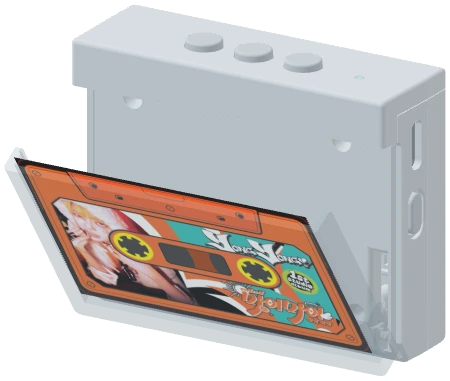
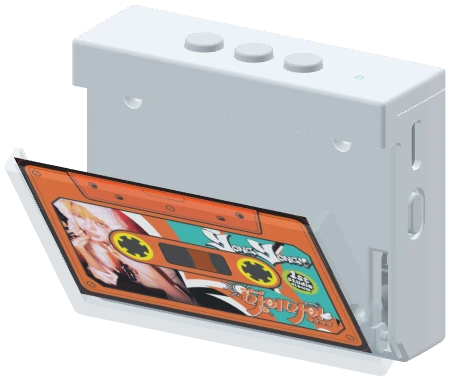
Give the demo player a matte finish and remove overlays

diff --git a/player3/guide/card-demo.js b/player3/guide/card-demo.js
@@ -9,9 +9,6 @@
   const instruction = document.querySelector('#demo-instruction');
   const audio = document.querySelector('#demo-audio');
   const rotateHint = document.querySelector('.demo-rotate-hint');
-  const arrows = stage.querySelector('.demo-arrows');
-  const label = stage.querySelector('.demo-callout');
-  const arrow = arrows.querySelector('path');
   const viewMenu = document.querySelector('.demo-views');
   const viewButtons = [...viewMenu.querySelectorAll('button')];
   const zoomControls = document.querySelector('.demo-zoom');
@@ -48,8 +45,8 @@
     if (drawModel) {
       drawModel(step);
     } else {
-      photo.src = step === 2 ? 'images/cad-demo-open-empty.webp?v=right-angle' :
-        step === 1 || step === 3 ? 'images/cad-cover-open.webp?v=right-angle' : 'images/cad-front.webp?v=right-angle';
+      photo.src = step === 2 ? 'images/cad-demo-open-empty.webp?v=matte' :
+        step === 1 || step === 3 ? 'images/cad-cover-open.webp?v=matte' : 'images/cad-front.webp?v=matte';
       looseCard.hidden = step !== 2;
     }
   }
@@ -167,10 +164,10 @@
     rearLight.position.set(65, 110, 100);
     scene.add(key, rearLight);
 
-    const shell = new THREE.MeshStandardMaterial({color: 0xc5cad0, roughness: .68, side: THREE.DoubleSide});
+    const shell = new THREE.MeshStandardMaterial({color: 0xc5cad0, roughness: .94, side: THREE.DoubleSide});
     const glass = new THREE.MeshPhysicalMaterial({
-      color: 0x829ba8, roughness: .22, metalness: .12,
-      transparent: true, opacity: .33, depthWrite: false,
+      color: 0x829ba8, roughness: .60, metalness: 0,
+      transparent: true, opacity: .25, depthWrite: false,
     });
     const rotation = new THREE.Matrix4().makeBasis(
       new THREE.Vector3(0, 0, 1),
@@ -198,12 +195,12 @@
       geometry.setIndex(new THREE.BufferAttribute(decode(part.f, Uint16Array), 1));
       return new THREE.Mesh(geometry, material);
     }
-    const wheelMaterial = new THREE.MeshStandardMaterial({color: 0xa5a9ae, roughness: .78, side: THREE.DoubleSide});
-    const portMaterial = new THREE.MeshStandardMaterial({color: 0x4b5058, roughness: .64, side: THREE.DoubleSide});
-    const ledMaterial = new THREE.MeshStandardMaterial({color: 0x9cc6ca, roughness: .36, side: THREE.DoubleSide});
+    const wheelMaterial = new THREE.MeshStandardMaterial({color: 0xa5a9ae, roughness: .92, side: THREE.DoubleSide});
+    const portMaterial = new THREE.MeshStandardMaterial({color: 0x4b5058, roughness: .89, side: THREE.DoubleSide});
+    const ledMaterial = new THREE.MeshStandardMaterial({color: 0x9cc6ca, roughness: .75, side: THREE.DoubleSide});
     for (const id of ['0', '1', '16']) scene.add(mesh(id, shell));
     scene.add(mesh('13', portMaterial));
-    const buttons = new THREE.MeshStandardMaterial({color: 0xaab2ba, roughness: .68, side: THREE.DoubleSide});
+    const buttons = new THREE.MeshStandardMaterial({color: 0xaab2ba, roughness: .94, side: THREE.DoubleSide});
     scene.add(controlMesh('buttons', buttons), controlMesh('power', buttons));
     scene.add(controlMesh('wheel', wheelMaterial), controlMesh('usb', portMaterial), controlMesh('led', ledMaterial));
 
@@ -249,37 +246,6 @@
     const axis = new THREE.Vector3(1, 0, 0);
     const cardPosition = new THREE.Vector3();
     const slide = new THREE.Vector3();
-    const point = new THREE.Vector3();
-    function annotate() {
-      const frontFacing = step === 0 && Math.abs(yaw - homeYaw) < .43 && pitch > .08 && pitch < .83;
-      // Use the front cover's lower right edge as the callout anchor.
-      point.set(31, .4, -20).project(camera);
-      const x = (point.x + 1) * width / 2;
-      const y = (1 - point.y) * height / 2;
-      const visible = frontFacing && x >= 0 && x < width - 8 && y >= 0 && y < height - 24;
-      arrows.toggleAttribute('hidden', !visible);
-      label.hidden = !visible;
-      if (!visible) return;
-      const w = label.offsetWidth;
-      const h = label.offsetHeight;
-      const rightEdge = (point.set(33, 24, -20).project(camera).x + 1) * width / 2;
-      const fitsRight = rightEdge + 12 + w <= width - 4;
-      const lx = fitsRight ? rightEdge + 12 : Math.max(4, Math.min(width - w - 4, x - w / 2));
-      const ly = fitsRight ? Math.min(height - h - 4, y + 8) : y + 30;
-      if (ly + h > height - 4) {
-        arrows.setAttribute('hidden', '');
-        label.hidden = true;
-        return;
-      }
-      label.style.transform = `translate(${lx}px,${ly}px)`;
-      const startX = lx + w / 2;
-      const startY = ly + h / 2;
-      const angle = Math.atan2(y - startY, x - startX);
-      const tipX = x - Math.cos(angle) * 3;
-      const tipY = y - Math.sin(angle) * 3;
-      const edge = side => [tipX - 5 * Math.cos(angle + side), tipY - 5 * Math.sin(angle + side)].join(' ');
-      arrow.setAttribute('d', `M ${startX} ${startY} L ${tipX} ${tipY} M ${edge(.58)} L ${tipX} ${tipY} L ${edge(-.58)}`);
-    }
     function render() {
       hinge.rotation.x = coverAngle;
       cardPosition.copy(slot).applyAxisAngle(axis, coverAngle).add(hinge.position);
@@ -291,7 +257,6 @@
       camera.position.set(viewShift + horizontal * Math.sin(yaw), -2 - horizontal * Math.cos(yaw), radius * Math.sin(pitch));
       camera.lookAt(viewShift, -2, 0);
       renderer.render(scene, camera);
-      annotate();
     }
     function update(state) {
       cancelAnimationFrame(frame);
@@ -349,8 +314,6 @@
       rotateModel = resetView = null;
       stage.classList.remove('has-model');
       rotateHint.hidden = viewMenu.hidden = true;
-      arrows.setAttribute('hidden', '');
-      label.hidden = true;
       zoomModel = null;
       drawModel = null;
       canvas.hidden = true;

diff --git a/player3/guide/index.html b/player3/guide/index.html
@@ -11,7 +11,7 @@
   <link rel="stylesheet" href="https://fonts.googleapis.com/css2?family=Noto+Sans+KR:wght@400;500;700&display=swap">
 <link rel="stylesheet" href="https://cdn.jsdelivr.net/gh/orioncactus/pretendard@v1.3.9/dist/web/static/pretendard.css">
   <link rel="stylesheet" href="../player-header.css">
-  <link rel="stylesheet" href="guide.css?v=viewer-angles">
+  <link rel="stylesheet" href="guide.css?v=matte">
 </head>
 <body>
   <a class="skip" href="#main">본문으로 건너뛰기</a>
@@ -47,12 +47,10 @@
       <div class="demo-viewer">
         <button class="demo-stage" type="button" id="demo-stage" aria-label="플레이어에서 커버 열기" disabled>
           <span class="demo-preview">
-            <img class="demo-product" src="images/cad-front.webp?v=right-angle" alt="">
+            <img class="demo-product" src="images/cad-front.webp?v=matte" alt="">
             <img class="demo-loose-card" src="images/card.webp?v=mymy" alt="" hidden>
           </span>
           <canvas class="demo-canvas" aria-hidden="true" hidden></canvas>
-          <span class="demo-callout" aria-hidden="true" hidden>투명 전면 커버</span>
-          <svg class="demo-arrows" aria-hidden="true" hidden><path/></svg>
         </button>
         <div class="demo-zoom" role="group" aria-label="모델 확대·축소" hidden>
           <button type="button" id="demo-zoom-out" aria-label="축소" disabled>−</button>
@@ -96,18 +94,18 @@
         </li>
         <li id="play">
           <div class="step-copy"><h3>전면 커버 열기</h3><p>앞쪽의 투명 커버를 앞으로 여세요. 커버는 35°까지 열려요.</p></div>
-          <a class="step-photo cover-photo" href="images/cad-cover-open.webp?v=right-angle" data-zoom="cover" aria-label="투명 전면 커버를 앞으로 연 상태 확대">
-            <span class="cover-frame"><img src="images/cad-cover-open.webp?v=right-angle" alt="투명 전면 커버를 앞으로 연 상태" loading="lazy"></span>
+          <a class="step-photo cover-photo" href="images/cad-cover-open.webp?v=matte" data-zoom="cover" aria-label="투명 전면 커버를 앞으로 연 상태 확대">
+            <span class="cover-frame"><img src="images/cad-cover-open.webp?v=matte" alt="투명 전면 커버를 앞으로 연 상태" loading="lazy"></span>
             <span class="cover-caption">투명 전면 커버</span>
           </a>
         </li>
         <li>
           <div class="step-copy"><h3>NFC 피스 넣기</h3><p>피스를 열린 커버 안쪽의 카드 거치부에 넣으세요.</p></div>
-          <a class="step-photo card-photo" href="images/cad-card-insert.webp?v=right-angle" data-zoom aria-label="플레이어 커버 안쪽 거치부에 NFC 피스를 넣는 모습 확대"><img src="images/cad-card-insert.webp?v=right-angle" alt="플레이어 커버 안쪽 거치부에 NFC 피스를 넣는 모습" loading="lazy"></a>
+          <a class="step-photo card-photo" href="images/cad-card-insert.webp?v=matte" data-zoom aria-label="플레이어 커버 안쪽 거치부에 NFC 피스를 넣는 모습 확대"><img src="images/cad-card-insert.webp?v=matte" alt="플레이어 커버 안쪽 거치부에 NFC 피스를 넣는 모습" loading="lazy"></a>
         </li>
         <li>
           <div class="step-copy"><h3>커버 닫고 앨범 재생</h3><p>음원이 저장되어 있으면 피스를 인식한 뒤 바로 재생돼요. 처음 듣는 피스는 Wi-Fi로 음원을 내려받아요.</p></div>
-          <a class="step-photo" href="images/cad-front.webp?v=right-angle" data-zoom aria-label="피스를 넣고 전면 커버를 닫은 플레이어 확대"><img src="images/cad-front.webp?v=right-angle" alt="피스를 넣고 전면 커버를 닫은 플레이어" loading="lazy"></a>
+          <a class="step-photo" href="images/cad-front.webp?v=matte" data-zoom aria-label="피스를 넣고 전면 커버를 닫은 플레이어 확대"><img src="images/cad-front.webp?v=matte" alt="피스를 넣고 전면 커버를 닫은 플레이어" loading="lazy"></a>
         </li>
         <li>
           <div class="step-copy"><h3>버튼과 볼륨 휠로 조작</h3><p>윗면 버튼으로 곡을 바꾸거나 재생을 멈출 수 있어요. 왼쪽 휠을 돌리면 음량이 조절돼요.</p><a href="#controls">버튼 위치 자세히 보기</a></div>
@@ -266,6 +264,6 @@
   </dialog>
   <script defer src="https://cdn.jsdelivr.net/npm/three@0.128.0/build/three.min.js"></script>
   <script defer src="guide.js?v=card-demo"></script>
-  <script defer src="card-demo.js?v=viewer-angles"></script>
+  <script defer src="card-demo.js?v=matte"></script>
 </body>
 </html>

diff --git a/player3/guide/guide.css b/player3/guide/guide.css
@@ -52,8 +52,6 @@ p, h1, h2, h3, figure, ol, dl, dd { margin: 0; }
 .demo-rotate-hint { position: absolute; right: 0; bottom: 7px; color: var(--muted); font-size: 13px; pointer-events: none; }
 .demo-stage.has-model { touch-action: none; }
 .demo-stage.is-dragging { cursor: grabbing; }
-.demo-callout { position: absolute; left: 0; top: 0; z-index: 1; padding: 0 4px; background: var(--paper); color: var(--green); font: 600 12px/1.5 Pretendard,system-ui,sans-serif; white-space: nowrap; pointer-events: none; }
-.demo-arrows { position: absolute; inset: 0; width: 100%; height: 100%; pointer-events: none; fill: none; stroke: var(--green); stroke-width: 1.2px; stroke-linecap: round; stroke-linejoin: round; }
 .demo-canvas { display: block; width: 100%; height: 100%; }
 .demo-zoom { position: absolute; left: 0; bottom: 7px; display: flex; gap: 4px; }
 .demo-zoom button { width: 40px; height: 40px; border: 1px solid var(--line); border-radius: 8px; background: var(--paper); color: var(--ink); font: 600 20px/1 system-ui, sans-serif; cursor: pointer; }
